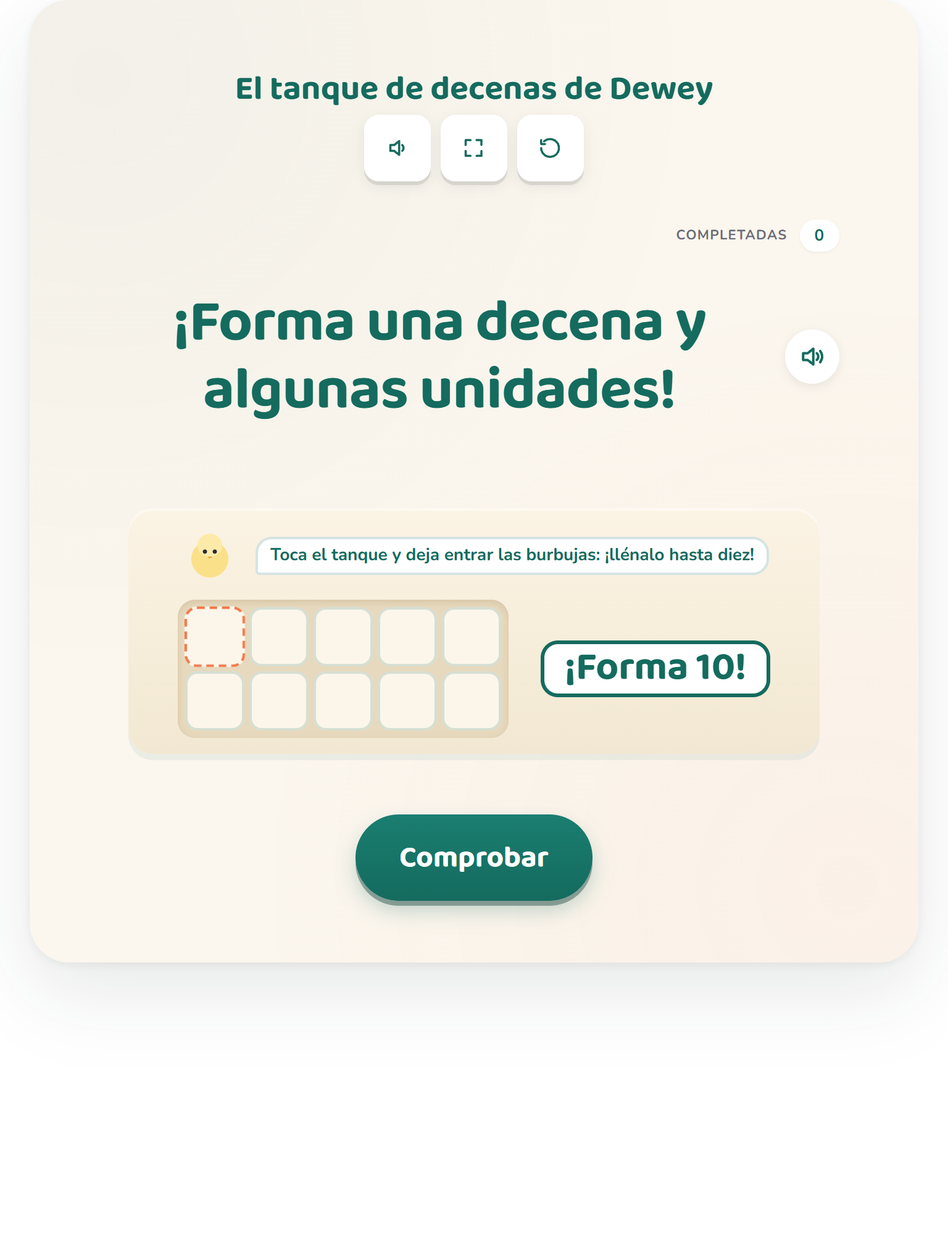
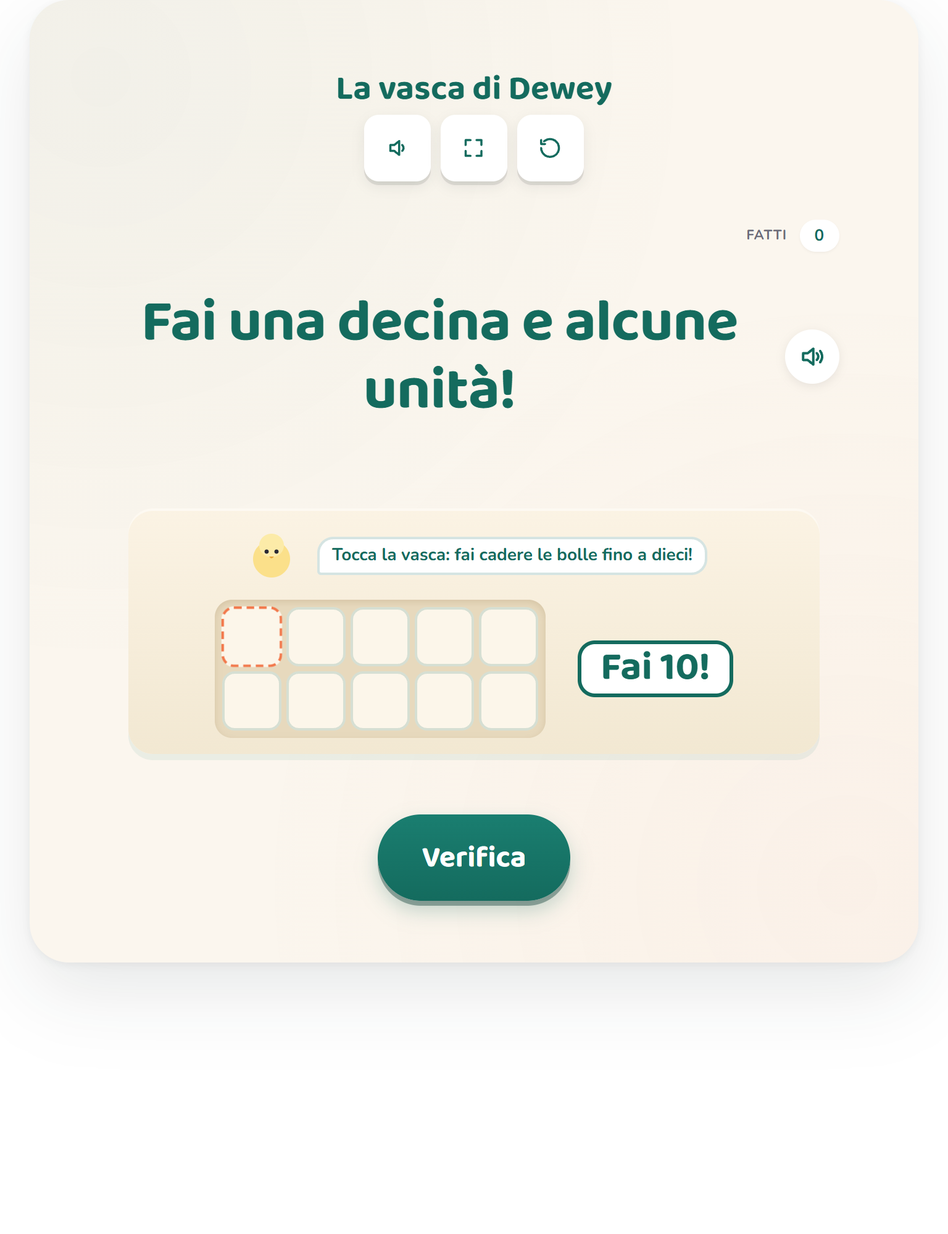
[FEATURE][I18N][IT] ten-tank #58 — La vasca di Dewey (numeri 11-19 decina e unita, Numeri, classe prima)
Italian fan-out of the ten-frame-tank place-value activity (K.NBT.A.1 machine
anchor). Activity-layer only; ten-frame-tank-core.js / lcs-shell.* / Direction-A
CSS / strand-names.ts all 0-touched.

- WORDS_IT (10-19) + numWord it branch; speak() it-IT in both LCSAudio +
  speechSynthesis chains (fixes the it->en-US TTS fallback).
- 29 strings it: (apostrophe-free JS) + 5 inline it ternary arms.
- Ensemble rulings: GRADE classe prima (GRADE_OVERRIDE it:'1'; aligns de/es/fr/pt);
  STRAND «Numeri» (auto-map, no override). Terminology: tank = «la vasca»
  (fem, pedagogue override of «serbatoio»); trays «Decine»/«Unità»; seal verb
  «formano una decina»; descriptor «il paperotto Dewey»; judgeThis «Questa!».
- SEO slug/page_title/page_intro it + it.json prose (Indicazioni nazionali,
  no CCSS code); wrapper 9.510 -> 9.511; ten-tank-activity.js ?v=8 -> ?v=9.

diff --git a/mini tools/ten-tank-activity.js b/mini tools/ten-tank-activity.js
@@ -23,13 +23,14 @@
   var WORDS_FR = { 10: 'dix', 11: 'onze', 12: 'douze', 13: 'treize', 14: 'quatorze', 15: 'quinze', 16: 'seize', 17: 'dix-sept', 18: 'dix-huit', 19: 'dix-neuf' };
   var WORDS_ES = { 10: 'diez', 11: 'once', 12: 'doce', 13: 'trece', 14: 'catorce', 15: 'quince', 16: 'dieciséis', 17: 'diecisiete', 18: 'dieciocho', 19: 'diecinueve' };
   var WORDS_PT = { 10: 'dez', 11: 'onze', 12: 'doze', 13: 'treze', 14: 'quatorze', 15: 'quinze', 16: 'dezesseis', 17: 'dezessete', 18: 'dezoito', 19: 'dezenove' };
+  var WORDS_IT = { 10: 'dieci', 11: 'undici', 12: 'dodici', 13: 'tredici', 14: 'quattordici', 15: 'quindici', 16: 'sedici', 17: 'diciassette', 18: 'diciotto', 19: 'diciannove' };
   var LANG = 'en';
-  function numWord(n) { return (LANG === 'es' ? WORDS_ES : LANG === 'de' ? WORDS_DE : LANG === 'fr' ? WORDS_FR : LANG === 'pt' ? WORDS_PT : WORDS)[n]; }
+  function numWord(n) { return (LANG === 'es' ? WORDS_ES : LANG === 'de' ? WORDS_DE : LANG === 'fr' ? WORDS_FR : LANG === 'pt' ? WORDS_PT : LANG === 'it' ? WORDS_IT : WORDS)[n]; }
 
   function speak(text) {
     try {
-      if (global.LCSAudio && global.LCSAudio.speak) { global.LCSAudio.speak({ type: 'word', text: String(text), lang: (LANG === 'es' ? 'es-MX' : LANG === 'pt' ? 'pt-BR' : LANG), rate: 0.95 }); return; }
-      if (global.speechSynthesis && global.SpeechSynthesisUtterance) { var u = new global.SpeechSynthesisUtterance(String(text)); u.rate = .95; u.lang = (LANG === 'es' ? 'es-MX' : LANG === 'de' ? 'de-DE' : LANG === 'fr' ? 'fr-FR' : LANG === 'pt' ? 'pt-BR' : 'en-US'); global.speechSynthesis.cancel(); global.speechSynthesis.speak(u); }
+      if (global.LCSAudio && global.LCSAudio.speak) { global.LCSAudio.speak({ type: 'word', text: String(text), lang: (LANG === 'es' ? 'es-MX' : LANG === 'pt' ? 'pt-BR' : LANG === 'it' ? 'it-IT' : LANG), rate: 0.95 }); return; }
+      if (global.speechSynthesis && global.SpeechSynthesisUtterance) { var u = new global.SpeechSynthesisUtterance(String(text)); u.rate = .95; u.lang = (LANG === 'es' ? 'es-MX' : LANG === 'de' ? 'de-DE' : LANG === 'fr' ? 'fr-FR' : LANG === 'pt' ? 'pt-BR' : LANG === 'it' ? 'it-IT' : 'en-US'); global.speechSynthesis.cancel(); global.speechSynthesis.speak(u); }
     } catch (e) {}
   }
   function bubbleSVG(kind) {
@@ -50,35 +51,35 @@
     reward: { id: 'lily-pond', label: 'Lily Pond', emoji: '🪷' },
 
     strings: {
-      title: { en: "Dewey's Ten-Tank", de: 'Deweys Zehner-Tank', fr: 'Le réservoir de Dewey', es: 'El tanque de decenas de Dewey', pt: 'Tanque de Dez do Dudu' },
-      prompt: { en: 'Make a ten and some ones!', de: 'Mach einen Zehner und ein paar Einer!', fr: 'Fais une dizaine et des unités !', es: '¡Forma una decena y algunas unidades!', pt: 'Monte uma dezena e algumas unidades!' },
-      buildTenHint: { en: 'Tap the tank to drop bubbles — fill it to ten!', de: 'Tippe auf den Tank und lass Blasen hinein – füll ihn bis zehn!', fr: 'Touche le réservoir pour faire tomber des bulles — remplis-le jusqu’à dix !', es: 'Toca el tanque y deja entrar las burbujas: ¡llénalo hasta diez!', pt: 'Toque no tanque para soltar bolhas — encha até dez!' },
-      placeTenHint: { en: 'Pop the ready-made ten into the tank!', de: 'Setz den fertigen Zehner in den Tank!', fr: 'Mets la dizaine toute prête dans le réservoir !', es: '¡Pon en el tanque la decena ya formada!', pt: 'Solte a dezena pronta no tanque!' },
-      placeOnesHint: { en: 'Now add the ones — tap to drop them in.', de: 'Jetzt die Einer dazu – tippe und lass sie hineinfallen.', fr: 'Ajoute maintenant les unités — touche pour les faire tomber.', es: 'Ahora las unidades: toca y déjalas caer.', pt: 'Agora ponha as unidades — toque para soltar.' },
-      regroupHint: { en: 'Drop ones — ten ones will make a ten!', de: 'Lass Einer hineinfallen – zehn Einer werden zu einem Zehner!', fr: 'Fais tomber des unités — dix unités feront une dizaine !', es: 'Deja caer unidades: ¡diez unidades forman una decena!', pt: 'Solte unidades — dez unidades viram uma dezena!' },
-      decomposeHint: { en: 'Take it apart: the ten in one tray, the ones in the other.', de: 'Nimm die Zahl auseinander: den Zehner in das eine Fach, die Einer in das andere.', fr: 'Sépare le nombre : la dizaine dans un bac, les unités dans l’autre.', es: 'Separa el número: la decena en un espacio y las unidades en el otro.', pt: 'Separe: a dezena numa bandeja, as unidades na outra.' },
-      repairHint: { en: 'Dewey needs {n} — how many more ones?', de: 'Dewey braucht {n} – wie viele Einer fehlen noch?', fr: 'Dewey a besoin de {n} — combien d’unités en plus ?', es: 'Dewey necesita {n}: ¿cuántas unidades faltan?', pt: 'Dudu quer {n} — quantas unidades faltam?' },
-      audioHint: { en: '🔊 Make the number Dewey said!', de: '🔊 Mach die Zahl, die Dewey gesagt hat!', fr: '🔊 Fais le nombre que Dewey a dit !', es: '🔊 ¡Forma el número que dijo Dewey!', pt: '🔊 Monte o número que o Dudu falou!' },
-      compareHint: { en: 'Peek at both, then tap which has more!', de: 'Guck bei beiden kurz und tippe dann auf die, die mehr hat!', fr: 'Regarde les deux, puis touche celui qui en a le plus !', es: '¡Observa los dos y toca el que tiene más!', pt: 'Espie os dois e toque no que tem mais!' },
-      makeOrder: { en: 'Make {n}!', de: 'Mach {n}!', fr: 'Fais {n} !', es: '¡Forma {n}!', pt: 'Monte {n}!' },
-      hearAgain: { en: '🔊 Hear it again', de: '🔊 Nochmal hören', fr: '🔊 Réécouter', es: '🔊 Escuchar otra vez', pt: '🔊 Ouvir de novo' },
-      tensTray: { en: 'Tens', de: 'Zehner', fr: 'Dizaines', es: 'Decenas', pt: 'Dezenas' },
-      onesTray: { en: 'Ones', de: 'Einer', fr: 'Unités', es: 'Unidades', pt: 'Unidades' },
-      moreMore: { en: '+{k} more', de: '+{k} mehr', fr: '+{k} de plus', es: '+{k} más', pt: '+{k} mais' },
-      peek: { en: 'Peek', de: 'Gucken', fr: 'Regarder', es: 'Ver', pt: 'Espiar' },
-      seal: { en: 'Ten! A ten and…', de: 'Zehn! Ein Zehner und …', fr: 'Dix ! Une dizaine et…', es: '¡Diez! Una decena y…', pt: 'Dez! Uma dezena e…' },
-      refuseSingle: { en: 'That\'s a ten-spot — singles go in the pond!', de: 'Das ist ein Zehner-Platz – einzelne Blasen kommen in den Teich!', fr: 'C’est une place pour une dizaine — les bulles seules vont dans la mare !', es: 'Ese espacio es para una decena: ¡las burbujas sueltas van al estanque!', pt: 'Aí é da dezena — as unidades vão no tanque!' },
-      refuseTenth: { en: 'That\'d make a whole new ten — we just need a ten and some!', de: 'Das gäbe einen ganz neuen Zehner – wir brauchen nur einen Zehner und ein paar Einer!', fr: 'Ça ferait une toute nouvelle dizaine — il faut juste une dizaine et quelques unités !', es: 'Eso formaría otra decena completa: ¡solo necesitamos una decena y algunas unidades!', pt: 'Isso faria outra dezena — a gente só quer uma dezena e umas unidades!' },
-      win: { en: 'A ten and some — you made it! 🦆', de: 'Ein Zehner und ein paar Einer – geschafft! 🦆', fr: 'Une dizaine et des unités — tu as réussi ! 🦆', es: '¡Una decena y algunas unidades: lo lograste! 🦆', pt: 'Uma dezena e mais um tanto — você conseguiu! 🦆' },
-      hintCheck: { en: 'Make a ten and some ones!', de: 'Mach einen Zehner und ein paar Einer!', fr: 'Fais une dizaine et des unités !', es: '¡Forma una decena y algunas unidades!', pt: 'Monte uma dezena e algumas unidades!' },
-      srcLabelTen: { en: 'a ten — ten ones together', de: 'ein Zehner – zehn Einer zusammen', fr: 'une dizaine — dix unités ensemble', es: 'una decena: diez unidades juntas', pt: 'uma dezena — dez unidades juntas' },
-      rejectSealFirst: { en: 'Seal a ten yourself first!', de: 'Bündle erst selbst einen Zehner!', fr: 'Fais d’abord une dizaine toi-même !', es: '¡Primero forma tú una decena!', pt: 'Feche uma dezena primeiro!' },
-      snapAnnounce: { en: 'Ten ones make a ten!', de: 'Zehn Einer werden zu einem Zehner!', fr: 'Dix unités font une dizaine !', es: '¡Diez unidades forman una decena!', pt: 'Dez unidades viram uma dezena!' },
-      rejectFix: { en: "Not quite — count what's missing!", de: 'Fast – zähl, was noch fehlt!', fr: 'Presque — compte ce qui manque !', es: 'Casi: ¡cuenta lo que falta!', pt: 'Quase — conte o que falta!' },
-      rejectJudge: { en: 'Look again — count the ones!', de: 'Schau nochmal – zähl die Einer!', fr: 'Regarde encore — compte les unités !', es: 'Mira otra vez: ¡cuenta las unidades!', pt: 'Olhe de novo — conte as unidades!' },
-      isMore: { en: '{n} is more!', de: '{n} ist mehr!', fr: '{n}, c’est plus !', es: '¡{n} es más!', pt: '{n} é mais!' },
-      tenAria: { en: 'a ten', de: 'ein Zehner', fr: 'une dizaine', es: 'una decena', pt: 'uma dezena' },
-      judgeThis: { en: 'This one!', de: 'Das hier!', fr: 'Celui-ci !', es: '¡Este!', pt: 'Este!' }
+      title: { en: "Dewey's Ten-Tank", de: 'Deweys Zehner-Tank', fr: 'Le réservoir de Dewey', es: 'El tanque de decenas de Dewey', pt: 'Tanque de Dez do Dudu', it: 'La vasca di Dewey' },
+      prompt: { en: 'Make a ten and some ones!', de: 'Mach einen Zehner und ein paar Einer!', fr: 'Fais une dizaine et des unités !', es: '¡Forma una decena y algunas unidades!', pt: 'Monte uma dezena e algumas unidades!', it: 'Fai una decina e alcune unità!' },
+      buildTenHint: { en: 'Tap the tank to drop bubbles — fill it to ten!', de: 'Tippe auf den Tank und lass Blasen hinein – füll ihn bis zehn!', fr: 'Touche le réservoir pour faire tomber des bulles — remplis-le jusqu’à dix !', es: 'Toca el tanque y deja entrar las burbujas: ¡llénalo hasta diez!', pt: 'Toque no tanque para soltar bolhas — encha até dez!', it: 'Tocca la vasca: fai cadere le bolle fino a dieci!' },
+      placeTenHint: { en: 'Pop the ready-made ten into the tank!', de: 'Setz den fertigen Zehner in den Tank!', fr: 'Mets la dizaine toute prête dans le réservoir !', es: '¡Pon en el tanque la decena ya formada!', pt: 'Solte a dezena pronta no tanque!', it: 'Metti la decina già pronta nella vasca!' },
+      placeOnesHint: { en: 'Now add the ones — tap to drop them in.', de: 'Jetzt die Einer dazu – tippe und lass sie hineinfallen.', fr: 'Ajoute maintenant les unités — touche pour les faire tomber.', es: 'Ahora las unidades: toca y déjalas caer.', pt: 'Agora ponha as unidades — toque para soltar.', it: 'Ora aggiungi le unità: tocca per farle cadere.' },
+      regroupHint: { en: 'Drop ones — ten ones will make a ten!', de: 'Lass Einer hineinfallen – zehn Einer werden zu einem Zehner!', fr: 'Fais tomber des unités — dix unités feront une dizaine !', es: 'Deja caer unidades: ¡diez unidades forman una decena!', pt: 'Solte unidades — dez unidades viram uma dezena!', it: 'Fai cadere le unità: dieci unità formano una decina!' },
+      decomposeHint: { en: 'Take it apart: the ten in one tray, the ones in the other.', de: 'Nimm die Zahl auseinander: den Zehner in das eine Fach, die Einer in das andere.', fr: 'Sépare le nombre : la dizaine dans un bac, les unités dans l’autre.', es: 'Separa el número: la decena en un espacio y las unidades en el otro.', pt: 'Separe: a dezena numa bandeja, as unidades na outra.', it: 'Scomponi: la decina in un vassoio e le unità in un altro.' },
+      repairHint: { en: 'Dewey needs {n} — how many more ones?', de: 'Dewey braucht {n} – wie viele Einer fehlen noch?', fr: 'Dewey a besoin de {n} — combien d’unités en plus ?', es: 'Dewey necesita {n}: ¿cuántas unidades faltan?', pt: 'Dudu quer {n} — quantas unidades faltam?', it: 'Dewey ha bisogno di {n}: quante altre unità?' },
+      audioHint: { en: '🔊 Make the number Dewey said!', de: '🔊 Mach die Zahl, die Dewey gesagt hat!', fr: '🔊 Fais le nombre que Dewey a dit !', es: '🔊 ¡Forma el número que dijo Dewey!', pt: '🔊 Monte o número que o Dudu falou!', it: '🔊 Fai il numero che ha detto Dewey!' },
+      compareHint: { en: 'Peek at both, then tap which has more!', de: 'Guck bei beiden kurz und tippe dann auf die, die mehr hat!', fr: 'Regarde les deux, puis touche celui qui en a le plus !', es: '¡Observa los dos y toca el que tiene más!', pt: 'Espie os dois e toque no que tem mais!', it: 'Sbircia tutti e due, poi tocca quale ne ha di più!' },
+      makeOrder: { en: 'Make {n}!', de: 'Mach {n}!', fr: 'Fais {n} !', es: '¡Forma {n}!', pt: 'Monte {n}!', it: 'Fai {n}!' },
+      hearAgain: { en: '🔊 Hear it again', de: '🔊 Nochmal hören', fr: '🔊 Réécouter', es: '🔊 Escuchar otra vez', pt: '🔊 Ouvir de novo', it: '🔊 Ascolta di nuovo' },
+      tensTray: { en: 'Tens', de: 'Zehner', fr: 'Dizaines', es: 'Decenas', pt: 'Dezenas', it: 'Decine' },
+      onesTray: { en: 'Ones', de: 'Einer', fr: 'Unités', es: 'Unidades', pt: 'Unidades', it: 'Unità' },
+      moreMore: { en: '+{k} more', de: '+{k} mehr', fr: '+{k} de plus', es: '+{k} más', pt: '+{k} mais', it: '+{k} ancora' },
+      peek: { en: 'Peek', de: 'Gucken', fr: 'Regarder', es: 'Ver', pt: 'Espiar', it: 'Sbircia' },
+      seal: { en: 'Ten! A ten and…', de: 'Zehn! Ein Zehner und …', fr: 'Dix ! Une dizaine et…', es: '¡Diez! Una decena y…', pt: 'Dez! Uma dezena e…', it: 'Dieci! Una decina e…' },
+      refuseSingle: { en: 'That\'s a ten-spot — singles go in the pond!', de: 'Das ist ein Zehner-Platz – einzelne Blasen kommen in den Teich!', fr: 'C’est une place pour une dizaine — les bulles seules vont dans la mare !', es: 'Ese espacio es para una decena: ¡las burbujas sueltas van al estanque!', pt: 'Aí é da dezena — as unidades vão no tanque!', it: 'Qui va una decina intera: le unità vanno nello stagno!' },
+      refuseTenth: { en: 'That\'d make a whole new ten — we just need a ten and some!', de: 'Das gäbe einen ganz neuen Zehner – wir brauchen nur einen Zehner und ein paar Einer!', fr: 'Ça ferait une toute nouvelle dizaine — il faut juste une dizaine et quelques unités !', es: 'Eso formaría otra decena completa: ¡solo necesitamos una decena y algunas unidades!', pt: 'Isso faria outra dezena — a gente só quer uma dezena e umas unidades!', it: 'Così si forma una nuova decina: serve una decina e alcune unità!' },
+      win: { en: 'A ten and some — you made it! 🦆', de: 'Ein Zehner und ein paar Einer – geschafft! 🦆', fr: 'Une dizaine et des unités — tu as réussi ! 🦆', es: '¡Una decena y algunas unidades: lo lograste! 🦆', pt: 'Uma dezena e mais um tanto — você conseguiu! 🦆', it: 'Una decina e alcune unità: ottimo lavoro! 🦆' },
+      hintCheck: { en: 'Make a ten and some ones!', de: 'Mach einen Zehner und ein paar Einer!', fr: 'Fais une dizaine et des unités !', es: '¡Forma una decena y algunas unidades!', pt: 'Monte uma dezena e algumas unidades!', it: 'Fai una decina e alcune unità!' },
+      srcLabelTen: { en: 'a ten — ten ones together', de: 'ein Zehner – zehn Einer zusammen', fr: 'une dizaine — dix unités ensemble', es: 'una decena: diez unidades juntas', pt: 'uma dezena — dez unidades juntas', it: 'una decina: dieci unità insieme' },
+      rejectSealFirst: { en: 'Seal a ten yourself first!', de: 'Bündle erst selbst einen Zehner!', fr: 'Fais d’abord une dizaine toi-même !', es: '¡Primero forma tú una decena!', pt: 'Feche uma dezena primeiro!', it: 'Prima forma tu una decina!' },
+      snapAnnounce: { en: 'Ten ones make a ten!', de: 'Zehn Einer werden zu einem Zehner!', fr: 'Dix unités font une dizaine !', es: '¡Diez unidades forman una decena!', pt: 'Dez unidades viram uma dezena!', it: 'Dieci unità formano una decina!' },
+      rejectFix: { en: "Not quite — count what's missing!", de: 'Fast – zähl, was noch fehlt!', fr: 'Presque — compte ce qui manque !', es: 'Casi: ¡cuenta lo que falta!', pt: 'Quase — conte o que falta!', it: 'Non proprio: conta quante ne mancano!' },
+      rejectJudge: { en: 'Look again — count the ones!', de: 'Schau nochmal – zähl die Einer!', fr: 'Regarde encore — compte les unités !', es: 'Mira otra vez: ¡cuenta las unidades!', pt: 'Olhe de novo — conte as unidades!', it: 'Guarda di nuovo: conta le unità!' },
+      isMore: { en: '{n} is more!', de: '{n} ist mehr!', fr: '{n}, c’est plus !', es: '¡{n} es más!', pt: '{n} é mais!', it: '{n} è di più!' },
+      tenAria: { en: 'a ten', de: 'ein Zehner', fr: 'une dizaine', es: 'una decena', pt: 'uma dezena', it: 'una decina' },
+      judgeThis: { en: 'This one!', de: 'Das hier!', fr: 'Celui-ci !', es: '¡Este!', pt: 'Este!', it: 'Questa!' }
     },
     defaults: {},
 
@@ -128,7 +129,7 @@
       else if (this.stage === 'compare') this._renderCompare(root);
 
       wrap.appendChild(root); stage.appendChild(wrap);
-      if (this.round.type === 'audio' && !this._heardSpoken) { this._heardSpoken = true; var self = this; setTimeout(function () { speak((LANG === 'es' ? 'Forma ' : LANG === 'de' ? 'Mach ' : LANG === 'fr' ? 'Fais ' : LANG === 'pt' ? 'Monte ' : 'Make ') + numWord(self.round.target)); }, 250); }
+      if (this.round.type === 'audio' && !this._heardSpoken) { this._heardSpoken = true; var self = this; setTimeout(function () { speak((LANG === 'es' ? 'Forma ' : LANG === 'de' ? 'Mach ' : LANG === 'fr' ? 'Fais ' : LANG === 'pt' ? 'Monte ' : LANG === 'it' ? 'Fai ' : 'Make ') + numWord(self.round.target)); }, 250); }
     },
     _hint: function () {
       var r = this.round, api = this.api;
@@ -179,14 +180,14 @@
       var fr = this._frame(this.cstate.tenInProgress, 10, 'ten', function () { self._tapTen(); }, function () { self._removeTenDot(); }, true);
       main.appendChild(fr);
       var side = api.el('div', 'tt-side');
-      if (this.round.type === 'audio') { var hb = api.el('button', 'tt-peekbtn'); hb.type = 'button'; hb.textContent = api.t('hearAgain'); hb.addEventListener('click', function () { speak((LANG === 'es' ? 'Forma ' : LANG === 'de' ? 'Mach ' : LANG === 'fr' ? 'Fais ' : LANG === 'pt' ? 'Monte ' : 'Make ') + numWord(self.round.target)); }); side.appendChild(hb); }
+      if (this.round.type === 'audio') { var hb = api.el('button', 'tt-peekbtn'); hb.type = 'button'; hb.textContent = api.t('hearAgain'); hb.addEventListener('click', function () { speak((LANG === 'es' ? 'Forma ' : LANG === 'de' ? 'Mach ' : LANG === 'fr' ? 'Fais ' : LANG === 'pt' ? 'Monte ' : LANG === 'it' ? 'Fai ' : 'Make ') + numWord(self.round.target)); }); side.appendChild(hb); }
       else { var lbl = api.el('div', 'tt-bignum'); lbl.textContent = api.t('makeOrder').replace('{n}', this.round.target); side.appendChild(lbl); }
       main.appendChild(side); root.appendChild(main);
     },
     _tapTen: function () {
       var res = Core.addToTen(this.round, this.cstate); if (!res.changed) return;
       this.api.sound && this.api.sound(540 + this.cstate.tenInProgress * 12); this.msg = null;
-      if (res.sealed) { this.sessionSealed = true; this.api.sound && this.api.sound(880); this.announce(this.api.t('seal')); speak(LANG === 'es' ? 'Diez' : LANG === 'de' ? 'Zehn' : LANG === 'fr' ? 'Dix' : LANG === 'pt' ? 'Dez' : 'Ten'); this._afterTen(); }
+      if (res.sealed) { this.sessionSealed = true; this.api.sound && this.api.sound(880); this.announce(this.api.t('seal')); speak(LANG === 'es' ? 'Diez' : LANG === 'de' ? 'Zehn' : LANG === 'fr' ? 'Dix' : LANG === 'pt' ? 'Dez' : LANG === 'it' ? 'Dieci' : 'Ten'); this._afterTen(); }
       else this.render();
     },
     _removeTenDot: function () { /* during build, tapping a bubble removes the last (correctable) */ if (this.cstate.tenInProgress > 0 && !this.cstate.sealedTenPlaced) { this.cstate.tenInProgress--; this.api.sound && this.api.sound(360); this.render(); } },
@@ -248,7 +249,7 @@
     _tapLoose: function () {
       var res = Core.placeOne(this.round, this.cstate); if (!res.changed) return;
       this.api.sound && this.api.sound(540 + this.cstate.looseOnes * 12);
-      if (res.snapped) { this.sessionSealed = true; this.api.sound && this.api.sound(880); this.announce(this.api.t('snapAnnounce')); speak(LANG === 'es' ? 'Diez' : LANG === 'de' ? 'Zehn' : LANG === 'fr' ? 'Dix' : LANG === 'pt' ? 'Dez' : 'Ten'); if (this._onesTarget() === 0) { this._win(); return; } this.stage = 'place-ones'; this.render(); return; }
+      if (res.snapped) { this.sessionSealed = true; this.api.sound && this.api.sound(880); this.announce(this.api.t('snapAnnounce')); speak(LANG === 'es' ? 'Diez' : LANG === 'de' ? 'Zehn' : LANG === 'fr' ? 'Dix' : LANG === 'pt' ? 'Dez' : LANG === 'it' ? 'Dieci' : 'Ten'); if (this._onesTarget() === 0) { this._win(); return; } this.stage = 'place-ones'; this.render(); return; }
       this.render();
     },
     _removeLoose: function () { if (this.cstate.looseOnes > 0) { this.cstate.looseOnes--; this.api.sound && this.api.sound(360); this.render(); } },
@@ -336,7 +337,7 @@
       this.api.sound && this.api.sound(920); this.render();
       var n = this.round.type === 'compare' ? this.round.comparePair[this.cstate.picked === 'A' ? 0 : 1] : this.round.target;
       this.announce(this.api.t('win'));
-      if (this.round.mode === 'compose' && this.round.type !== 'compare' && this.round.target >= 11) speak((LANG === 'es' ? 'una decena y ' : LANG === 'de' ? 'ein Zehner und ' : LANG === 'fr' ? 'une dizaine et ' : LANG === 'pt' ? 'uma dezena e ' : 'a ten and ') + this._onesTarget() + ' — ' + numWord(this.round.target));
+      if (this.round.mode === 'compose' && this.round.type !== 'compare' && this.round.target >= 11) speak((LANG === 'es' ? 'una decena y ' : LANG === 'de' ? 'ein Zehner und ' : LANG === 'fr' ? 'une dizaine et ' : LANG === 'pt' ? 'uma dezena e ' : LANG === 'it' ? 'una decina e ' : 'a ten and ') + this._onesTarget() + ' — ' + numWord(this.round.target));
       else speak(numWord(n) || n);
     },
 

diff --git a/frontend/app/[locale]/activities/[slug]/page.tsx b/frontend/app/[locale]/activities/[slug]/page.tsx
@@ -108,7 +108,7 @@ const GRADE_OVERRIDE: Record<string, Record<string, string>> = {
 
   'mochi-feast.count-out.k-cc-b-5': { de: '1', pt: '1', it: '1' },                 // K count-out-N / produce-a-set → Klasse 1 / 1º ano (pt BNCC EF01MA02 contar de maneira exata/pareamento — count-out-to-produce, distinct from #55 necklace EF01MA04 count-&-register; + EF01MA01; K-cluster→1º); en stays Kindergarten
 
-  'ten-tank.ten-frame-tank.k-nbt-a-1': { de: '1', fr: '1', es: '1', pt: '1' },      // K teen numbers 11-19 as ten+ones (Bündeln) → Klasse 1. PT 1º ano (pedagogue-decisive): compor/decompor 11-19 como uma dezena e unidades com material manipulável = BNCC EF01MA07 (+ EF01MA05 comparar) — NOT EF01MA08 (add/sub problems); DISTINCT from bos-berry-pantry pt='2' (that's valor posicional formal to 85 = EF02MA01; ten-tank ≤20 concreto = 1º). Strand Números pelo auto-map (NBT→Números) → SEM STRAND_OVERRIDE pt. en stays Kindergarten (K-cluster pattern). FR CP (operator-ruled): « une dizaine et des unités » structured-tens decomposition of 11-19 = début-CP attendu; native 'K'→GS too low (posy #71: la GS s'arrête vers 30, sans dizaines structurées); CP → « Nombres et calcul » auto-map correct → NO STRAND override. ES 1.º primaria (maestra-decisive #58): unitizar diez→una decena + valor posicional = entrada de primaria (preescolar no tiene decena); alinea los hermanos base-ten es (track-repair/bundle-bot='1'); strand auto «Sentido numérico» → NO es STRAND override
+  'ten-tank.ten-frame-tank.k-nbt-a-1': { de: '1', fr: '1', es: '1', pt: '1', it: '1' },      // K teen numbers 11-19 as ten+ones (Bündeln) → Klasse 1. PT 1º ano (pedagogue-decisive): compor/decompor 11-19 como uma dezena e unidades com material manipulável = BNCC EF01MA07 (+ EF01MA05 comparar) — NOT EF01MA08 (add/sub problems); DISTINCT from bos-berry-pantry pt='2' (that's valor posicional formal to 85 = EF02MA01; ten-tank ≤20 concreto = 1º). Strand Números pelo auto-map (NBT→Números) → SEM STRAND_OVERRIDE pt. en stays Kindergarten (K-cluster pattern). FR CP (operator-ruled): « une dizaine et des unités » structured-tens decomposition of 11-19 = début-CP attendu; native 'K'→GS too low (posy #71: la GS s'arrête vers 30, sans dizaines structurées); CP → « Nombres et calcul » auto-map correct → NO STRAND override. ES 1.º primaria (maestra-decisive #58): unitizar diez→una decena + valor posicional = entrada de primaria (preescolar no tiene decena); alinea los hermanos base-ten es (track-repair/bundle-bot='1'); strand auto «Sentido numérico» → NO es STRAND override
   'wondering-jar.estimate-jar.k-cc-b-5': { de: '1', pt: '1' },            // K estimate-then-count → Klasse 1 / 1º ano (pt BNCC EF01MA03 "estimar e comparar quantidades... em torno de 20 elementos" — the only 1º habilidade whose verb is literally estimar; + EF01MA02 secondary via "aproximada"; DISTINCT from #57 mochi-feast EF01MA02 count-out; K-cluster→1º). Strand Números pelo auto-map (CC→Números) → SEM STRAND_OVERRIDE pt. en stays Kindergarten (K-cluster pattern)
   'pips-round.mail-route.k-cc-a-3': { de: '1', fr: '1', es: '1', pt: '1' },        // K numeral reading/recognition (Zahlen lesen bis 20) → Klasse 1 / 1º ano (pt BNCC EF01MA01 — o número da casa = "código de identificação", clause literal; + EF01MA05 13-vs-31 comparar duas ordens; NOT EF01MA07/08 compor/decompor; harmoniza de/fr/es grade 1). Strand Números pelo auto-map (CC→Números) → SEM STRAND_OVERRIDE pt. en stays Kindergarten (K-cluster pattern). fr → CP (content-drives-CP: lire les nombres jusqu'à 20 en chiffres + teen-reversal 13/31 = numération CP, NOT GS; contrast the WRITING sibling digby :180 which stays GS 0-9); strand auto-maps « Nombres et calcul » (no override). ES 1.º primaria (maestra-decisive + operator-ruled #60): la inversión 13/31 = posición de cifra cambia el valor = valor posicional naciente = primaria formal (misma lógica que #58); leer numerales 0-20 aislados. strand auto «Sentido numérico» (no override)
   'digby-number-trace.numeral-formation.k-cc-a-3': { de: '1', pt: '1' },  // K numeral WRITING (Ziffern schreiben) → Klasse 1; en stays Kindergarten (K-cluster pattern). PT 1º ano (pedagogue-decisive, diverge de fr='GS'/es='preescolar'): a criança ESCREVE o algarismo convencional (traçado 0–9), registro simbólico máximo. A Educação Infantil (EI03ET07) trata o número oral/concreto e registra de modo livre/pessoal, EVITANDO a formalização do traçado convencional → a fronteira da BNCC cai um degrau acima da SEP/francesa (que INCLUEM o traçado dos algarismos na pré-escola → NÃO copia es='preescolar'/fr='GS'). Manda a superfície de resposta: aqui ELA É a grafia convencional do numeral → 1º ano, unidade Números (EF01MA01), harmoniza com o irmão de leitura pips-round=1. O de='Klasse 1' é artefato da regra-cega alemã (Kindergarten não é escola), não transfere; chega-se ao mesmo 1º ano por raciocínio BNCC próprio. Strand Números pelo auto-map (C&C→Números) → SEM STRAND_OVERRIDE pt
@@ -552,7 +552,7 @@ export default async function ActivityPage({ params }: { params: PageParams }) {
   // applied here to the iframe-loaded wrapper URL (the only un-busted
   // link in the activity-page → mini-tool chain). The wrapper reads
   // only `activity` / `lang` / `embed` params; `v` is harmless to it.
-  const ACTIVITY_WRAPPER_VERSION = '9.510';
+  const ACTIVITY_WRAPPER_VERSION = '9.511';
 
   const iframeSrc =
     `/mini-tools/${row.tool}.html?v=${ACTIVITY_WRAPPER_VERSION}` +

diff --git a/mini tools/ten-tank-activity.html b/mini tools/ten-tank-activity.html
@@ -17,7 +17,7 @@
        NOTE: bump ?v=N on EVERY change to ten-tank-activity.js (§A.13.42). -->
   <script src="/mini-tools/lcs-shell.js?v=5"></script>
   <script src="/mini-tools/ten-frame-tank-core.js?v=1"></script>
-  <script src="/mini-tools/ten-tank-activity.js?v=8"></script>
+  <script src="/mini-tools/ten-tank-activity.js?v=9"></script>
   <script>
     LCS.mount(TenTankActivity, { mount: '#lcs-root' });
   </script>
